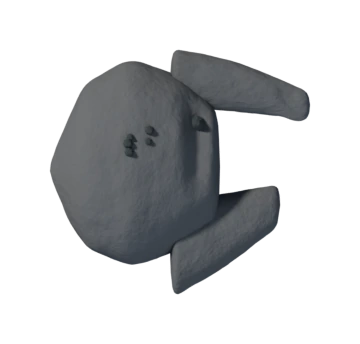
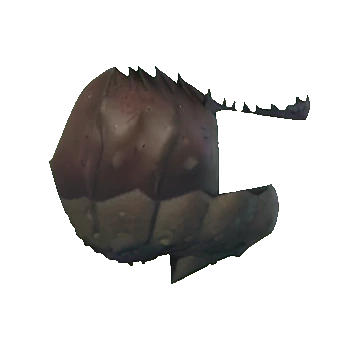
abyss-depth-lab v3.9.1: 巨蟹 前腕(fore)・爪(claw) の材質を d0.62 上腕の意匠へ展開（上腕はバイト維持）
- 経緯: v3.9.0 の前腕・爪が灰色プレースホルダのままだったため公開不可。承認は上腕(merus)のみなので、上腕は変更せず（sha256 d305dac2… 不変）、前腕・爪の2点だけへ同意匠（暗玄武岩〜錆茶・厚い重なり甲殻・深い溝）を展開。
- 方法: 既存 placeholder の alpha（＝正確な輪郭・関節位置・前腕長さ・二枚爪）をシルエットに流用し、merus 材質を等倍で敷いた入力を ComfyUI DreamShaper img2img（seed 20261125, steps28, cfg7.0, 前腕 denoise 0.32 / 爪 0.38）で材質のみ移行。keyer.py で緑キー+despill（緑フリンジ0px）→ 元キャンバスへトリム無しで再登録（ピボット・当たり不変）。
- 検証: 形状保全 IoU（前腕0.893 / 爪0.993）。平均色 merus(61,59,55) V0.25 に対し 前腕(63,58,53) V0.25 / 爪(65,59,55) V0.26（旧 placeholder は明灰 V0.37）。実ブラウザ（横持ち874×402 DPR2・WebGL2 Depth ON）で予告/一振りの各コマ、肩→膝→爪の3部位すべてが同一の暗いマット甲殻として読める（灰色部位なし・緑/白フリンジなし、脚全体は操作ボタンに隠れず）。node --test 100/100 通過。
- 正直な残差: d0.62 上腕と完全同一ではなく近縁（前腕はわずかに暖色寄り・やや平滑）。実機（スマホ実ハード）FPS・発熱は未検証。
- 版: sw-assets v16 / 3.9.1、package.json 3.9.1。明示6ファイルのみ。生成物・比較シート・ログ・生出力はリポジトリ外。

Changed region(s): [[0.1222, 0.1453, 0.8861, 0.8721]]

diff --git a/abyss-depth-lab/sw-assets.js b/abyss-depth-lab/sw-assets.js
@@ -1,8 +1,8 @@
 // ABYSS DIVE · DEPTH LAB の Service Worker 用アセット一覧
 self.GAME_ASSETS = self.GAME_ASSETS || {};
 self.GAME_ASSETS['abyss-depth-lab'] = {
-  version: 'v15',
-  gameVersion: '3.9.0',
+  version: 'v16',
+  gameVersion: '3.9.1',
   files: [
     'assets/fish-minnow-swim.webp',
     'assets/fish-hunter-swim.webp',

diff --git a/abyss-depth-lab/docs/CURRENT_WORK.md b/abyss-depth-lab/docs/CURRENT_WORK.md
@@ -1,6 +1,6 @@
 # ABYSS DIVE（`abyss-depth-lab/` 一本化版） — 現在地
 
-最終更新: 2026-11-26 / 版 **v3.9.0**（`sw-assets.js` `v15`, `package.json` `3.9.0`）
+最終更新: 2026-11-26 / 版 **v3.9.1**（`sw-assets.js` `v16`, `package.json` `3.9.1`）
 
 船内インターミッション（「倉庫・換装」「強化・整備」「開発・製作」）＋ **v3.7.1 のレーザー/反射魚雷修正・船内メニュー重なり解消** ＋ 承認済みの敵（B亜種ヤドカリ／煤冠イソギンチャク, v3.8.0）を保持したまま、**新大型敵「地層背負いの巨蟹（仮）」を 1 遭遇として追加（v3.9.0）**。巨蟹の前脚 上腕(merus)は承認済みの ComfyUI 生成 v2（d0.62）へ差し替え済み。
 
@@ -15,7 +15,7 @@
 - **殻は硬い（弾は無効化しない）**: 装甲を通した実ダメージ（`geoCrabDamage`）。序盤魚雷 1.5/発 → 殻には 1 発 ≈ **0.09**（= `dmg*FLOOR_BODY`）。最大強化（改造 200 段＋個体 200 段強化、perShot≈31）は装甲を通過。露出関節（軟部）は wind/swing の膝関節まわりのみ。
 - **前脚の描画**: 上腕(merus)/前腕(fore)/爪(claw) は透過 WebP を**関節ピボットで回して置く**（`CRAB_LEG_META`）。Canvas 図形は素材が読めない時のフォールバックのみ。予告は照明に消されない別パス（`drawGeoCrabTelegraph`）。殻は `drawGeoCrab` が焼き 1 枚を描く。
 - **撃破**: 資源 **1200** を一度だけ（`createCrabEncounter.onDefeat`）。崩壊（脚が弛みわずかに沈む）を 1.6 秒見せてから消える。
-- **⚠ 既知の未達**: 前腕(fore) と爪(claw) の素材は**未リペイントのプレースホルダ**で、承認済み d0.62 の上腕(merus) と材質が一致しない（前腕=平滑な明灰、爪=平滑な暗色）。殻は合格。詳細は `docs/WORK_REPORT.md` の v3.9.0 項。
+- **前脚の材質（v3.9.1 で展開済み）**: 上腕(merus) は承認済み d0.62（**バイト維持**）、前腕(fore)・爪(claw) も同意匠（暗玄武岩〜錆茶・厚い重なり甲殻・深い溝）へ展開済み。**実ゲーム等倍では肩〜爪が同一の暗いマット甲殻として読める**（旧版の灰色プレースホルダは解消）。ただし d0.62 上腕と完全同一ではなく近縁（前腕はわずかに暖色寄り・やや平滑、爪は二枚爪を保持 IoU 0.99）。詳細は `docs/WORK_REPORT.md` の v3.9.1 項。
 
 ### v3.8.0（保持）: B亜種ヤドカリ（`hermitB`）／煤冠イソギンチャク（`anemone`）
 - **B亜種ヤドカリ**: 深部（合流広場の深床）へ進入で 1 遭遇。歩行→警戒→鋏を開く砲撃。撃破は表示ポーズを殻/胴/脚/鋏/眼の 6 部位へ分裂（`js/pose-debris.js`＝演出のみ）。世界固定でカリング対象外。
@@ -69,8 +69,8 @@
   - **船内インターミッション（`js/base.js?v=20`, `js/base-rules.js?v=10`, `js/cabin-panels.js`, `assets/cabin-*.webp`）**：統合「☰ メニュー」から切替、5 項目＋テーマ別背景アニメーション＋3 人の 4 コマアニメ。**v3.9.0 で不変。**
   - 中層 Canvas2D（`js/game.js?v=54`, `js/projectile-shapes.js?v=3`, `js/trench.js?v=4`, `js/trench-rules.js?v=2`, `js/dive-map.js?v=2`, `js/map-rules.js?v=2`）：`depthActive` 時は実地形描画を WebGL2 側へ一本化。ミサイルは 4 形状スプライト＋3 段階挙動。**v3.8.0: `js/pose-debris.js?v=1`, `js/anemone-rules.js?v=1`。v3.9.0: `js/geo-crab-rules.js?v=1`。**
 - **敵ロスター（v3.9.0 時点）**: 魚3種（`minnow`/`hunter`/`angler`）／戦車擬態型ヤドカリ（`hermit`）／B亜種ヤドカリ（`hermitB`）／イカ砲手（`gunner`）／クラゲ（`jelly`）／煤冠イソギンチャク（`anemone`）／**地層背負いの巨蟹（`geo_crab`, 大型・合流広間1遭遇）**／リヴァイアサン。
-- **巨蟹アセット（v3.9.0）**: `assets/geo-crab-shell.webp`/`_n`/`_e`（殻・1180×470）、`assets/crab-leg-merus.webp`（1614×287, **承認 d0.62**）、`assets/crab-leg-fore.webp`（1739×240）、`assets/crab-leg-claw.webp`（360×344）、`assets/crab-leg-parts.json`（寸法・ピボット）。生成: `tools/bake_geo_crab*.py`（殻・脚 Blender 焼き）、`tools/bake_merus_v2.py`＋`tools/comfy_gen.py`（merus d0.62）。
-- **キャッシュ・版管理**: `sw-assets.js`（`version: 'v15'`, `gameVersion: '3.9.0'`, 全 127 ファイル登録）、`package.json`（`3.9.0`）。
+- **巨蟹アセット（v3.9.1）**: `assets/geo-crab-shell.webp`/`_n`/`_e`（殻・1180×470）、`assets/crab-leg-merus.webp`（1614×287, **承認 d0.62・バイト維持**）、`assets/crab-leg-fore.webp`（1739×240, **v3.9.1 で merus 意匠へ再生成**）、`assets/crab-leg-claw.webp`（360×344, **v3.9.1 で再生成**）、`assets/crab-leg-parts.json`（寸法・ピボット）。生成: `tools/bake_geo_crab*.py`＋`tools/bake_merus_v2.py`（殻・脚の Blender 焼き／上腕 仮絵）、`tools/comfy_gen.py`（img2img: 上腕 seed20261125 d0.62 / 前腕 0.32 / 爪 0.38）＋`keyer.py`（緑キー・despill）。
+- **キャッシュ・版管理**: `sw-assets.js`（`version: 'v16'`, `gameVersion: '3.9.1'`, 全 127 ファイル登録）、`package.json`（`3.9.1`）。
 - **テスト**: `cabin-panels`(5) + `depth-math`(6) + `intro`(24) + `world-biomes`(4) + `pose-debris`(14) + `hermit-b`(7) + `hermit-b-ingame`(11) + `assets`(4) + `anemone`(6) + `geo-crab`(8) ＝ **計 100 件**（全通過）。
 
 ---

diff --git a/abyss-depth-lab/docs/WORK_REPORT.md b/abyss-depth-lab/docs/WORK_REPORT.md
@@ -1,5 +1,24 @@
 # ABYSS DIVE（`abyss-depth-lab/`） — 作業報告
 
+## 2026-11-26 / v3.9.1 — 巨蟹 前脚 前腕(fore)・爪(claw) の材質を d0.62 上腕の意匠へ展開（公開可・プレイアブル）
+
[1 lines of base64/hex data omitted]
+- **方法（`geocrab-comfy-merus2` の生成・despill・再登録を踏襲）**:
+  - 既存 placeholder の **alpha（＝正確な輪郭・関節位置・前腕長さ・二枚爪）をそのまま**シルエットに流用し、承認済み merus の材質を**等倍**で敷いた入力を生成（`#00ff00` 背景・元キャンバスを 8 の倍数へパディング）。
+  - ComfyUI DreamShaper img2img（`abyss-depth-lab/tools/comfy_gen.py`）**seed 20261125 固定**・`--steps 28 --cfg 7.0`。**低 denoise（前腕 0.32 / 爪 0.38）**で形状を保ったまま材質のみ移した。高 denoise（0.55–0.62）は形状が崩れて**生成由来の光沢・金属・金/緑アクセント**が混じるため不採用。
+  - 緑キー＋despill（`keyer.py`：ソフトキー＋外部連結成分透過＋despill）→ **緑フリンジ 0px**。元キャンバス（前腕 1739×240 / 爪 360×344）へ**トリム無しで再登録**（ピボット・当たり不変）。
+- **検証（実測）**:
+  - **形状保全**（placeholder alpha との IoU）: **前腕 0.893 / 爪 0.993**（爪はほぼ原形＝二枚爪を保持）。
+  - **材質**（オブジェクト画素平均）: merus RGB(61,59,55) H69.8 S0.14 V0.25 に対し **前腕 (63,58,53) H47 S0.17 V0.25 / 爪 (65,59,55) H88 S0.19 V0.26**。旧 placeholder は (88,92,96) H208 V0.37＝**明るい青灰**で、明度・色が d0.62 へ揃った。緑フリンジ 0px。
+  - **実ブラウザ（本ツリー配信・横持ち 874×402 DPR2・タッチ・WebGL2 Depth ON）**: 予告（脚上げ）と一振りの各コマで、**肩→膝→爪の3部位すべてが同一の暗いマット甲殻**として読めることを確認（灰色の仮絵部位なし・緑/白フリンジなし）。**脚全体は操作ボタン（照明/ソナー/バリア/ミサイル/撃つ＝右端）に隠れず**画面中央に収まる。
+  - `node --test abyss-depth-lab/tests/*.test.mjs` → **100/100 通過**。`assets.test.mjs`（実在・`gameVersion`=`package.json` 一致）OK。
+- **正直な評価 / 残したこと**:
+  - d0.62 上腕と**完全同一ではなく近縁**。前腕は上腕よりわずかに暖色寄り（平均色相 47° vs 70°）で、上腕の密な重なり殻板よりやや平滑。爪は二枚爪の切れ込みを保持（IoU 0.99）するが、上腕ほどの彫りはない。**実ゲーム等倍では同一の暗いマット甲殻として読める**が、3 倍拡大では差が残る。
+  - 実機（スマホ実ハード）の FPS・発熱は未検証（ヘッドレス Chromium のみ）。
+- **版・ファイル（明示の少数のみ）**: `assets/crab-leg-fore.webp` / `assets/crab-leg-claw.webp` 差し替え、`sw-assets.js` `v16` / `3.9.1`、`package.json` `3.9.1`、docs 2 件。生成物・比較シート・ログ・生出力はリポジトリ外（作業フォルダ）に保存。
+
+---
+
 ## 2026-11-26 / v3.9.0 — 新大型敵「地層背負いの巨蟹（仮）」を公開 tip（eb660324）へ統合＋前脚 上腕(merus)を承認済み ComfyUI 生成 v2(d0.62) へ差し替え（公開可・プレイアブル）
 
 - **統合の基点と版**: 公開 `origin/main` = `eb660324`（v3.8.0：B亜種ヤドカリ／煤冠イソギンチャク＋v3.7.1 のレーザー・反射魚雷修正）。隔離試作 worktree `D:/gh-abyss-worktrees/geo-crab` の `a0a45d6c`（基点 `aed63b97`=v3.7.0）の `abyss-depth-lab/` 差分のみを、共通祖先 `aed63b97` を基準とした **3-way（改行 LF 正規化）**で `js/game.js` に統合した。公開側の hermitB/anemone/pose-debris/reftorp 修正と、試作側の巨蟹の描画・更新・当たり・装甲・1 遭遇配置を**双方残した**（`damageEnemy` は装甲計算＋va/hermitB の吹き飛ばし除外を合成、`cull` は hermitB のカリング除外＋巨蟹の deadT 残存を合成、`drawEnemyBody`／`drawWatchTelegraph`／`updateEnemy` switch／`G` 状態は両種を残す）。既存の魚3種・戦車ヤドカリ・船内UI・レーザー/反射魚雷修正・セーブは不変。
